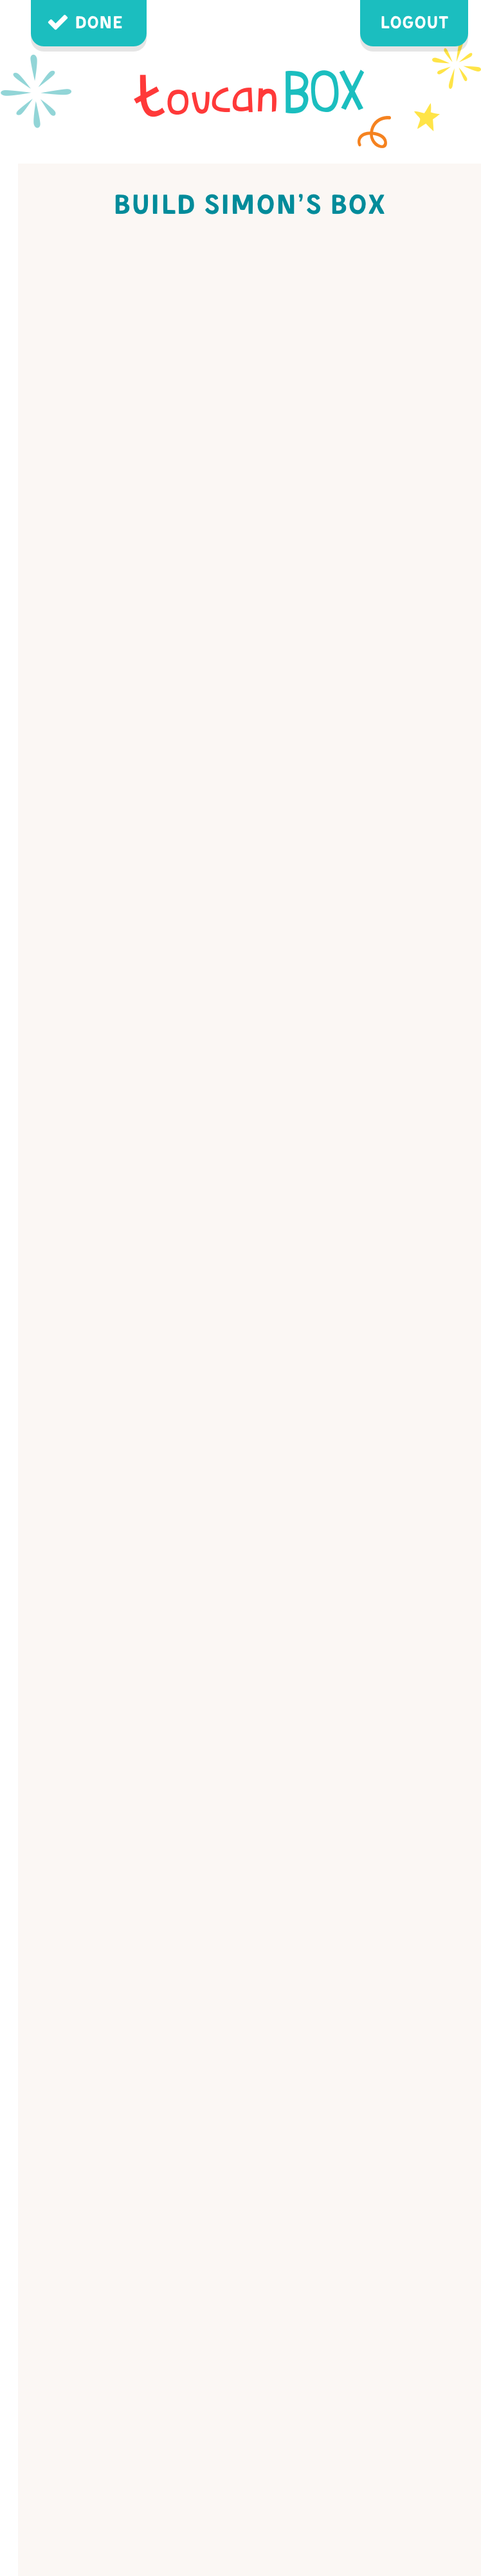
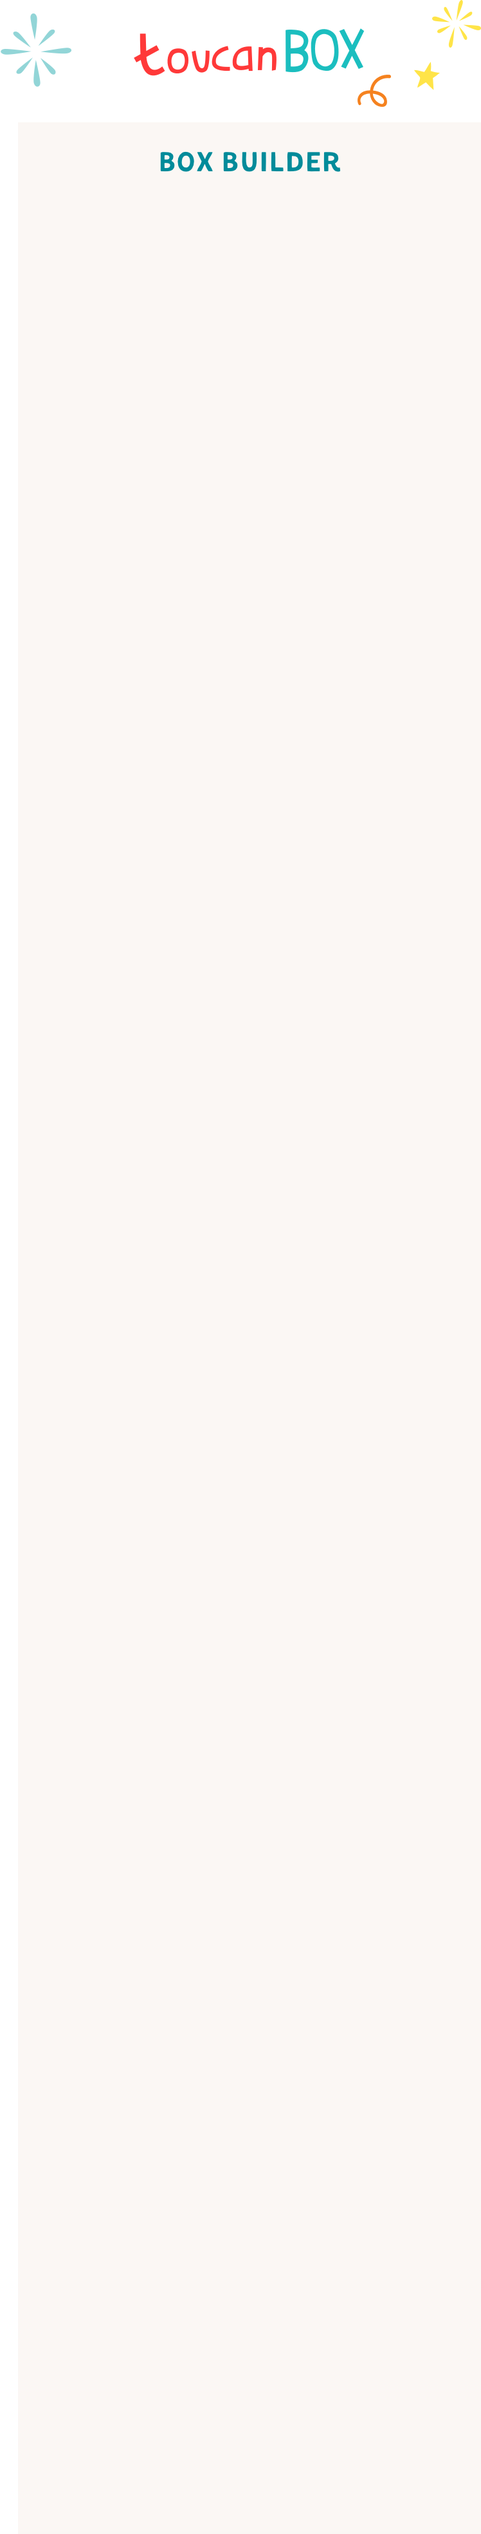
back button

Changed region(s): [[0.0307, 0.0, 1.0, 0.0938]]

diff --git a/src/app.framer/imported/app@2x/layers.json.js b/src/app.framer/imported/app@2x/layers.json.js
@@ -17,6 +17,142 @@ window.__imported__["app@2x/layers.json.js"] = [
 		"backgroundColor": "rgba(255, 255, 255, 1)",
 		"children": [
 			{
+				"objectId": "F34E1A57-9EDA-42B0-911F-7F2D438059BC",
+				"kind": "group",
+				"name": "logout",
+				"originalName": "logout",
+				"maskFrame": null,
+				"layerFrame": {
+					"x": 266,
+					"y": 0,
+					"width": 84,
+					"height": 40
+				},
+				"visible": true,
+				"metadata": {
+					"opacity": 1
+				},
+				"image": {
+					"path": "images/Layer-logout-rjm0rtfb.png",
+					"frame": {
+						"x": 266,
+						"y": 0,
+						"width": 84,
+						"height": 40
+					}
+				},
+				"children": []
+			},
+			{
+				"objectId": "4D535896-EAD8-4C92-B4D3-CEDC063C7FFE",
+				"kind": "group",
+				"name": "menu",
+				"originalName": "menu",
+				"maskFrame": null,
+				"layerFrame": {
+					"x": 10,
+					"y": 0,
+					"width": 90,
+					"height": 40
+				},
+				"visible": true,
+				"metadata": {
+					"opacity": 1
+				},
+				"image": {
+					"path": "images/Layer-menu-neq1mzu4.png",
+					"frame": {
+						"x": 10,
+						"y": 0,
+						"width": 90,
+						"height": 40
+					}
+				},
+				"children": [
+					{
+						"objectId": "DF201CFD-C42A-42DE-AD32-B6E312D60CE1",
+						"kind": "group",
+						"name": "Group",
+						"originalName": "Group",
+						"maskFrame": null,
+						"layerFrame": {
+							"x": 25,
+							"y": 11,
+							"width": 58,
+							"height": 12
+						},
+						"visible": true,
+						"metadata": {
+							"opacity": 1
+						},
+						"image": {
+							"path": "images/Layer-Group-reyymdfd.png",
+							"frame": {
+								"x": 25,
+								"y": 11,
+								"width": 58,
+								"height": 12
+							}
+						},
+						"children": []
+					}
+				]
+			},
+			{
+				"objectId": "1987E095-0D8A-41B6-8581-65A411FC6B15",
+				"kind": "group",
+				"name": "done",
+				"originalName": "done",
+				"maskFrame": null,
+				"layerFrame": {
+					"x": 270,
+					"y": 137,
+					"width": 80,
+					"height": 42
+				},
+				"visible": true,
+				"metadata": {
+					"opacity": 1
+				},
+				"image": {
+					"path": "images/Layer-done-mtk4n0uw.png",
+					"frame": {
+						"x": 270,
+						"y": 137,
+						"width": 80,
+						"height": 42
+					}
+				},
+				"children": []
+			},
+			{
+				"objectId": "209FC082-E0BF-4F7A-9377-969B9CE52269",
+				"kind": "group",
+				"name": "back",
+				"originalName": "back",
+				"maskFrame": null,
+				"layerFrame": {
+					"x": 5,
+					"y": 137,
+					"width": 80,
+					"height": 42
+				},
+				"visible": true,
+				"metadata": {
+					"opacity": 1
+				},
+				"image": {
+					"path": "images/Layer-back-mja5rkmw.png",
+					"frame": {
+						"x": 5,
+						"y": 137,
+						"width": 80,
+						"height": 42
+					}
+				},
+				"children": []
+			},
+			{
 				"objectId": "BBA33948-AAE0-401C-8730-12C5A800DBFE",
 				"kind": "group",
 				"name": "swap_list",
@@ -1180,9 +1316,9 @@ window.__imported__["app@2x/layers.json.js"] = [
 				"maskFrame": null,
 				"layerFrame": {
 					"x": -14,
-					"y": 0,
+					"y": 32,
 					"width": 374,
-					"height": 2000
+					"height": 1968
 				},
 				"visible": true,
 				"metadata": {
@@ -1192,9 +1328,9 @@ window.__imported__["app@2x/layers.json.js"] = [
 					"path": "images/Layer-background-m0ffoum1.png",
 					"frame": {
 						"x": -14,
-						"y": 0,
+						"y": 32,
 						"width": 374,
-						"height": 2000
+						"height": 1968
 					}
 				},
 				"children": []
@@ -1579,7 +1715,7 @@ window.__imported__["app@2x/layers.json.js"] = [
 		},
 		"visible": true,
 		"metadata": {},
-		"backgroundColor": "rgba(27, 190, 191, 1)",
+		"backgroundColor": "rgba(27.000000000000007, 190, 191, 1)",
 		"children": [
 			{
 				"objectId": "6D7073B4-F646-4A05-A1A4-A448DF56C0C6",
